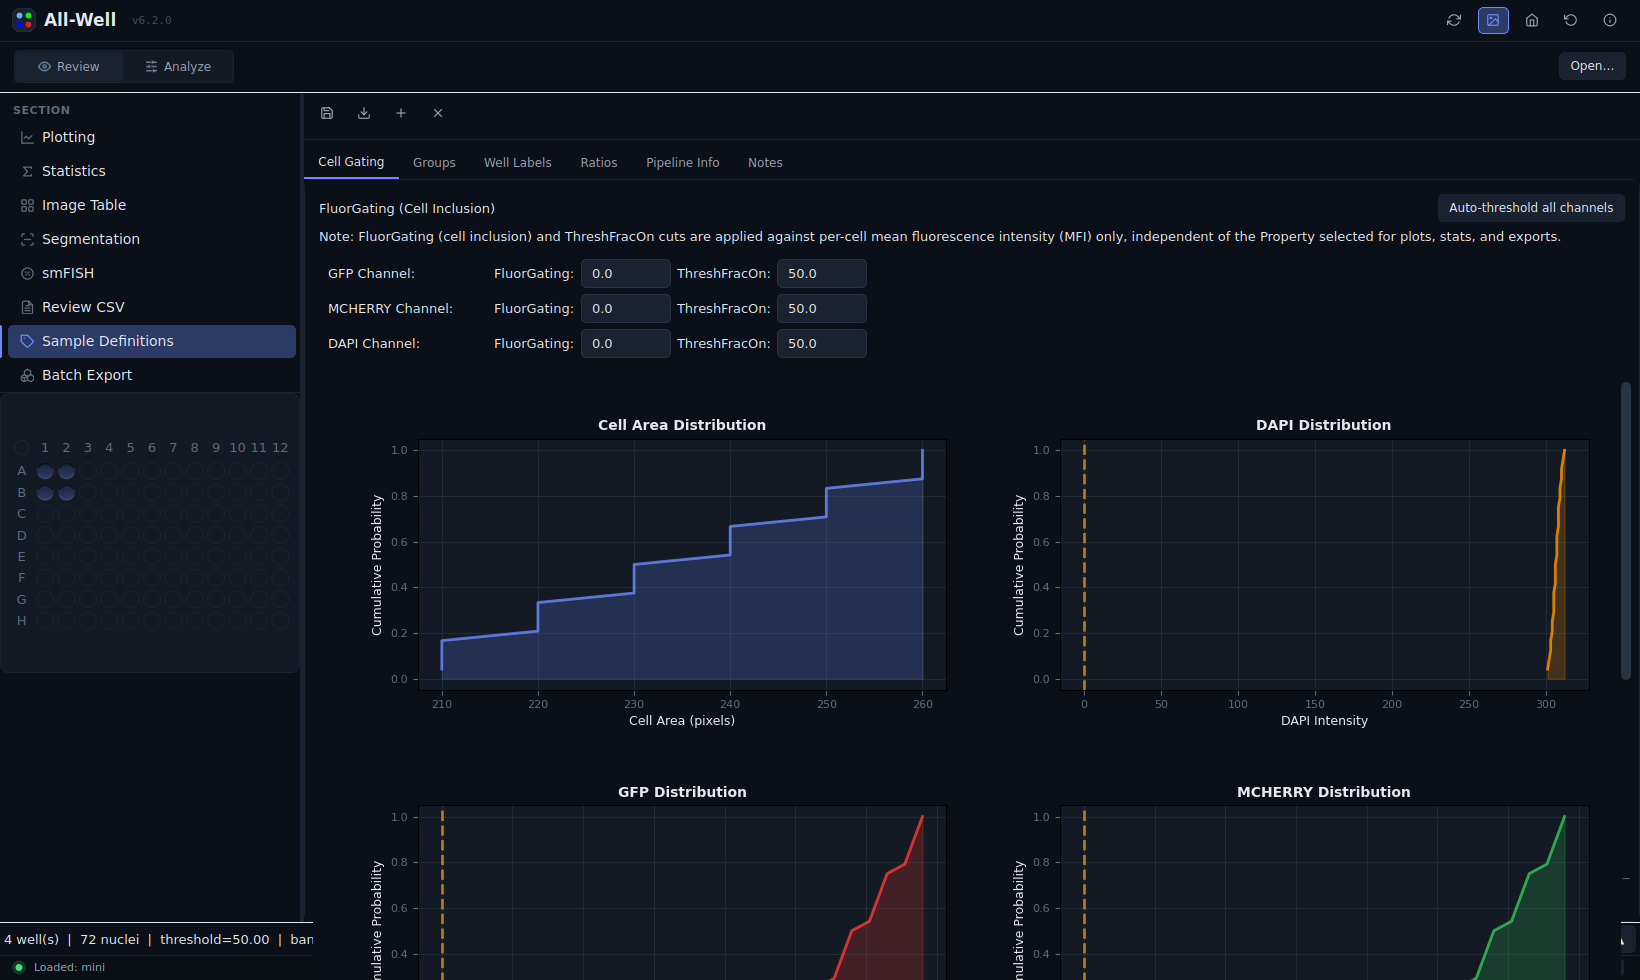
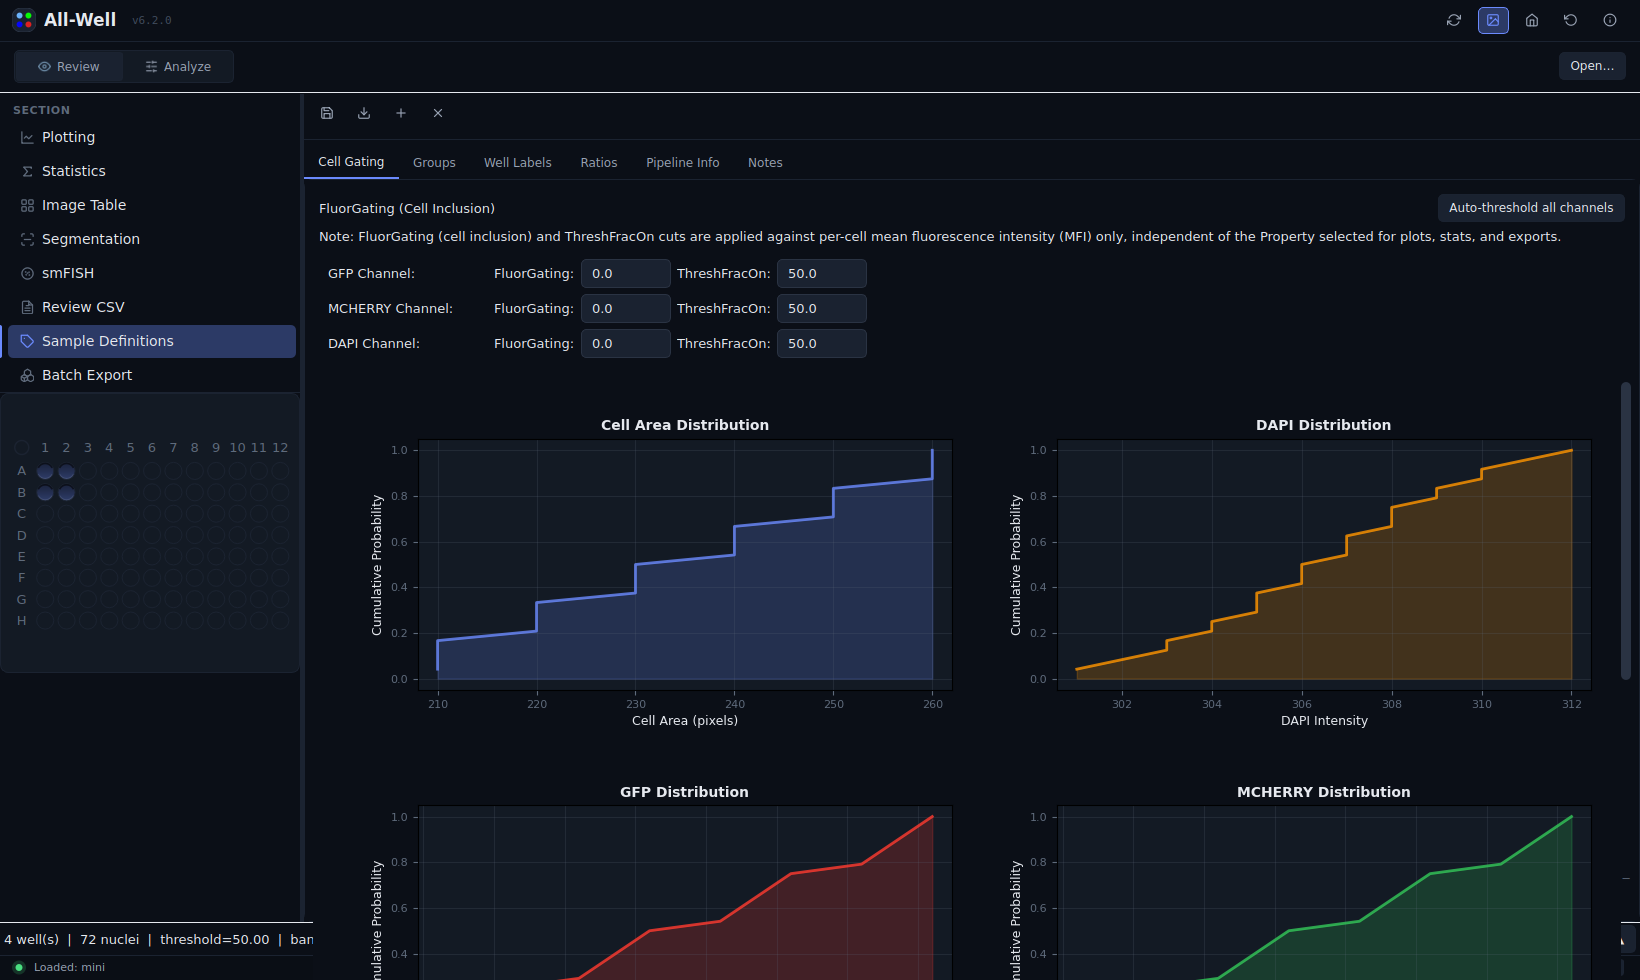
Address remaining visual-audit items (empty-state gating, cosmetics)
- Empty/no-data state: grey out the per-tab control bars until a dataset
  loads. refresh_plot_empty_states now disables every control container that
  carries the shared 'TabCtrl' object name plus the plotting ctxbar's
  'PlottingActionRow', re-enabling them on load. Tagged the Segmentation and
  Statistics control rows 'TabCtrl' so they're included; gate once at launch.
- Analyze: schema-string field expands to fill its row (was a fixed 170 px
  that clipped the schema) and shows from the start.
- Groups: empty selections list shows a centered 'No groups yet' hint instead
  of a void above the marooned From-selection/Import footer.
- Cell Gating: clamp each CDF x-axis to its data range so a gate line at 0 no
  longer stretches the axis and crams the curve against one edge.
- Re-render affected screenshots; update REPORT.md (fixes applied, score rows,
  and a closed re-investigation note: the mpl nav toolbar is already
  consistent across plots). Casing refactor intentionally left per request.

diff --git a/well_viewer/features/grouping/cell_gating_tab_view.py b/well_viewer/features/grouping/cell_gating_tab_view.py
@@ -814,6 +814,18 @@ def _cell_gating_source_wells(app) -> list[str]:
     return sorted(selected, key=app._parse_rc)
 
 
+def _focus_cdf_xaxis(ax, vals) -> None:
+    """Clamp the x-axis to the data range (+ small pad) so a gate line at 0 —
+    or far outside the data — doesn't stretch the axis and cram the CDF against
+    one edge. Called after the gate axvline so it has the final say."""
+    if len(vals) == 0:
+        return
+    lo = float(np.min(vals))
+    hi = float(np.max(vals))
+    pad = (hi - lo) * 0.04 if hi > lo else (abs(hi) * 0.05 or 1.0)
+    ax.set_xlim(lo - pad, hi + pad)
+
+
 def _cell_gating_plot_cdf(app) -> None:
     ratio_data = getattr(app, "_cell_gating_ratio_data", {}) or {}
     if (not app._cell_gating_cell_areas
@@ -864,6 +876,7 @@ def _cell_gating_plot_cdf(app) -> None:
                                 linestyle="--", linewidth=2, alpha=0.7)
         except Exception:
             swallowed()  # was: pass (silent except)
+        _focus_cdf_xaxis(axes[0], areas)
 
     colors = [accent, "#FF9500", "#FF3B30", "#34C759"]
     next_idx = 1
@@ -891,6 +904,7 @@ def _cell_gating_plot_cdf(app) -> None:
                        linestyle="--", linewidth=2, alpha=0.7)
         except (ValueError, KeyError):
             swallowed("cell gating CDF: no fluor-gate line (unparsable/missing)")
+        _focus_cdf_xaxis(ax, vals)
         next_idx += 1
 
     for ratio_label, values in sorted(ratio_data.items()):
@@ -908,6 +922,7 @@ def _cell_gating_plot_cdf(app) -> None:
                      fontsize=10, fontweight="bold")
         ax.grid(True, alpha=0.2, color=txt_mut)
         ax.tick_params(colors=txt_mut, labelsize=8)
+        _focus_cdf_xaxis(ax, vals)
         next_idx += 1
 
     app._cell_gating_ax = axes[0]

diff --git a/well_viewer/core/ui_helpers.py b/well_viewer/core/ui_helpers.py
@@ -158,6 +158,14 @@ def wrap_with_empty_state(
     return stack
 
 
+#: Object names of per-tab control-bar containers that act on the loaded
+#: dataset. They are greyed out until a dataset is present (see
+#: ``refresh_plot_empty_states``) so the empty state isn't a wall of live-looking
+#: controls that do nothing. ``TabCtrl`` is the shared marker every tab's control
+#: row already uses; ``PlottingActionRow`` is the plotting ctxbar's channel row.
+_DATA_GATED_OBJECT_NAMES = ("TabCtrl", "PlottingActionRow")
+
+
 def refresh_plot_empty_states(app: Any) -> None:
     """Flip every registered plot-empty-state stack based on whether a
     dataset is currently loaded. Safe to call before any stacks have been
@@ -171,6 +179,16 @@ def refresh_plot_empty_states(app: Any) -> None:
                 stack.setCurrentIndex(target)
         except Exception:
             swallowed()  # was: pass (silent except)
+    # Grey out the per-tab control bars until a dataset is loaded. Disabling the
+    # container cascades to its children; re-enabling restores each child's own
+    # enabled state (so tab-local logic like smFISH's combo gating still wins).
+    if isinstance(app, QWidget):
+        for name in _DATA_GATED_OBJECT_NAMES:
+            for bar in app.findChildren(QWidget, name):
+                try:
+                    bar.setEnabled(has_data)
+                except Exception:
+                    swallowed()
 
 
 def build_section_header(

diff --git a/well_viewer/features/preview/panel_view.py b/well_viewer/features/preview/panel_view.py
@@ -40,6 +40,7 @@ def build_review_image_panel(self, parent: QWidget) -> None:
     layout.addWidget(inner, 1)
 
     ctrl = QWidget(inner)
+    ctrl.setObjectName("TabCtrl")  # data-gated: greyed out until a dataset loads
     cl = QHBoxLayout(ctrl)
     cl.setContentsMargins(10, 6, 10, 6)
     self._review_image_well_lbl = QLabel("No well selected", ctrl)
@@ -161,6 +162,7 @@ def build_review_image_panel(self, parent: QWidget) -> None:
     il.addWidget(self._review_image_status)
 
     lut_row = QWidget(inner)
+    lut_row.setObjectName("TabCtrl")  # data-gated with the rest of the controls
     lr = QHBoxLayout(lut_row)
     lr.setContentsMargins(8, 2, 8, 2)
     self._review_lut_chan_lbl = QLabel(
@@ -186,6 +188,7 @@ def build_review_image_panel(self, parent: QWidget) -> None:
     # ── Color customization + binary-mask toggle row ───────────────────
     from PySide6.QtWidgets import QPushButton as _QPushButton
     color_row = QWidget(inner)
+    color_row.setObjectName("TabCtrl")  # data-gated with the rest of the controls
     cr = QHBoxLayout(color_row)
     cr.setContentsMargins(8, 2, 8, 2)
     self._review_image_color_swatches = {}

diff --git a/widgets/saved_selections_list.py b/widgets/saved_selections_list.py
@@ -902,7 +902,20 @@ class SavedSelectionsList(QWidget):
             if it.widget():
                 it.widget().deleteLater()
         self._rows = {}
-        for s in self._display_order():
+        order = self._display_order()
+        if not order:
+            # Fill the empty panel with a centered hint instead of leaving a
+            # large void above the marooned "From selection" / "Import" footer.
+            self._vbox.insertStretch(0)
+            hint = QLabel(
+                "No groups yet.\nUse “+ Add” above or “From selection” below "
+                "to create one."
+            )
+            hint.setObjectName("Muted")
+            hint.setAlignment(Qt.AlignCenter)
+            hint.setWordWrap(True)
+            self._vbox.insertWidget(self._vbox.count() - 1, hint)
+        for s in order:
             row = _SelectionRow(s, self._body)
             row.activated.connect(self._on_activated)
             row.visibilityToggled.connect(self._on_visibility)

diff --git a/analyze_tab_form.py b/analyze_tab_form.py
@@ -152,9 +152,11 @@ class AnalyzeTabFormMixin:
 
         schema_str_row = self._row(sec, "Schema string")
         self._schema_str_edit = QLineEdit(DEFAULT_SCHEMA, schema_str_row)
-        self._schema_str_edit.setFixedWidth(170)
-        schema_str_row.layout().addWidget(self._schema_str_edit)
-        schema_str_row.layout().addStretch(1)
+        # Expand to fill the row — a fixed 170 px clipped the full schema string
+        # (e.g. "experiment:channel:well:fov:timepoint" → "nnel:well:fov:…").
+        self._schema_str_edit.setMinimumWidth(220)
+        self._schema_str_edit.setCursorPosition(0)  # show the start, not the tail
+        schema_str_row.layout().addWidget(self._schema_str_edit, 1)
         self._schema_str_edit.editingFinished.connect(self._sync_dropdowns_from_string)
 
         self._schema_err_lbl = QLabel("", sec)

diff --git a/well_viewer/features/stats/view.py b/well_viewer/features/stats/view.py
@@ -141,6 +141,7 @@ def build_stats_results_panel(app, parent: QWidget) -> None:
     layout.addWidget(app._stats_hdr)
 
     app._stats_ctrl = QWidget(parent)
+    app._stats_ctrl.setObjectName("TabCtrl")  # data-gated until a dataset loads
     cl = QGridLayout(app._stats_ctrl)
     cl.setContentsMargins(12, 6, 12, 6)
 
@@ -216,6 +217,7 @@ def build_stats_results_panel(app, parent: QWidget) -> None:
     # five grid rows in a third column and rendered vertically centered (it
     # appeared to float beside the Channel row, disconnected from the form).
     run_row = QWidget(parent)
+    run_row.setObjectName("TabCtrl")  # data-gated with the stats form above
     rrl = QHBoxLayout(run_row)
     rrl.setContentsMargins(12, 0, 12, 6)
     run_btn = btn_primary(run_row, "Run test", app._stats_run)

diff --git a/well_viewer/runtime_app.py b/well_viewer/runtime_app.py
@@ -333,6 +333,10 @@ class WellViewerApp(QWidget):
         from well_viewer.core.app_shell_view import build_ui
         build_ui(self)
         self._apply_theme()
+        # Gate the per-tab control bars to the no-data state on launch (they are
+        # re-enabled the moment a dataset loads). Lazily-built tabs pick this up
+        # on their first redraw via the same helper.
+        refresh_plot_empty_states(self)
 
         if data_path is not None:
             QTimer.singleShot(100, lambda: self._load_path(data_path))

diff --git a/_Docs/visual_audit/REPORT.md b/_Docs/visual_audit/REPORT.md
@@ -22,7 +22,7 @@ Cleanliness · Usability · Professionalism**. Findings are tagged
 
 | View | Clut | Algn | Act | Cons | Clean | Use | Prof | Worst issues |
 |------|:--:|:--:|:--:|:--:|:--:|:--:|:--:|------|
-| Empty state | 2 | 4 | 3 | 3 | 3 | 3 | 3 | Full plot toolbar active with no data |
+| Empty state | 4 | 4 | 4 | 4 | 4 | 4 | 4 | ✅ control bars greyed until a dataset loads |
 | Plotting · Bar Plots | 3 | 4 | 3 | 3 | 4 | 4 | 4 | Tall 4-row toolbar; unlabeled icons; stray bar labels |
 | Plotting · Line Graphs | 4 | 4 | 3 | 3 | 4 | 4 | 4 | Unlabeled icons; legend repeated per subplot |
 | Plotting · Scatter (per-cell) | 4 | 4 | 3 | 2 | 4 | 4 | 4 | `gfp` lowercase vs `GFP`; mpl toolbar appears |
@@ -33,30 +33,30 @@ Cleanliness · Usability · Professionalism**. Findings are tagged
 | Image Table | 3 | 4 | 3 | 3 | 3 | 3 | 3 | ✅ row table aligned, labels fixed, row-boxes captioned; still dense by nature |
 | Segmentation · Review Image | 3 | 3 | 3 | 3 | 3 | 3 | 3 | Dense single-row toolbar; many buttons |
 | Segmentation · Playground | – | – | – | – | – | – | – | Did not render (optional deps) |
-| smFISH | 3 | 3 | 3 | 3 | 4 | 3 | 4 | ✅ duplicate message fixed; controls still active w/ no data |
+| smFISH | 4 | 3 | 3 | 3 | 4 | 4 | 4 | ✅ duplicate message fixed; controls greyed until data loads |
 | Review CSV | 4 | 4 | 4 | 4 | 5 | 4 | 5 | Header text right-aligned for text cols |
-| Sample Def · Cell Gating | 4 | 4 | 4 | 4 | 4 | 4 | 4 | CDF auto-range crams data to edge |
-| Sample Def · Groups | 3 | 3 | 3 | 3 | 3 | 3 | 4 | Action bar marooned at bottom; big empty middle |
+| Sample Def · Cell Gating | 4 | 4 | 4 | 4 | 5 | 4 | 5 | ✅ CDF axes now focus on the data range |
+| Sample Def · Groups | 4 | 4 | 4 | 3 | 4 | 4 | 4 | ✅ empty-state hint fills the void; footer reads in context |
 | Sample Def · Well Labels | 4 | 5 | 4 | 3 | 5 | 4 | 5 | `a01` lowercase vs plate `A01` |
 | Sample Def · Ratios | 4 | 3 | 4 | 4 | 4 | 4 | 4 | Header alignment; split action bar |
 | Sample Def · Pipeline Info | 5 | 5 | 5 | 5 | 5 | 5 | 5 | — (reference for the rest) |
 | Sample Def · Notes | 5 | 5 | 4 | 4 | 5 | 5 | 5 | Doc toolbar icons unlabeled |
 | Batch Export | 3 | 3 | 3 | 3 | 3 | 3 | 4 | Dense two-column; large top gap |
-| Analyze | 3 | 4 | 4 | 4 | 3 | 4 | 4 | Schema string truncated; large empty right pane |
+| Analyze | 4 | 4 | 4 | 4 | 3 | 4 | 4 | ✅ schema field widened/shows start; right pane still sparse when idle |
 | Help drawer | 4 | 4 | 4 | 4 | 4 | 4 | 4 | Underlay not dimmed |
 
 ---
 
 ## Per-view findings
 
-### Empty state — `00-empty-state.png`
-The "Load a directory" placeholder is clear and well-centered, **but the entire Plotting
-control bar** (Channel `—`, Property, Threshold 50.0, Fold change, Timepoints, Group by
-Well, Beeswarm, Violin, Smooth) **is fully rendered and interactive with no data behind
-it**. It implies actions that do nothing.
-- **[H]** Hide or disable the per-tab control bars until a dataset is loaded; show only the
-  empty-state prompt.
-- **[M]** Header icon buttons (refresh / image / home / info) are icon-only and ambiguous.
+### Empty state — `00-empty-state.png` *(fixed in this pass)*
+The "Load a directory" placeholder is clear and well-centered.
+- **[H→fixed]** The Plotting control bar (Channel / Property / Threshold / Fold change /
+  Timepoints / Group by Well / Beeswarm / Violin / Smooth) is now **greyed out until a
+  dataset loads**, so the empty state no longer presents a wall of live-looking controls
+  that do nothing. The sub-tab selector stays active.
+- **[L]** Header icon buttons (refresh / image / home / info) are icon-only — but they all
+  carry tooltips (hover-only; see cross-cutting note 4).
 
 ### Plotting · Bar Plots / Line Graphs — `10-plotting-bar-plots.png`, `10-plotting-line-graphs.png`
 Plots themselves are clean and professional. Issues:
@@ -73,7 +73,8 @@ Plots themselves are clean and professional. Issues:
 - **[L]** A matplotlib navigation toolbar appears at the bottom here but not on line/bar plots.
 
 ### Plotting · Distribution — `10-plotting-distribution.png`
-Good, readable. **[L]** matplotlib nav toolbar present (inconsistent with line/bar tabs).
+Good, readable. *(The matplotlib nav toolbar here is consistent with the other plots — see
+the closed re-investigation note in Deferred.)*
 
 ### Plotting · Heat Map — `10-plotting-heat-map.png`
 - **[H]** The heat-map figure is rendered on a **bright white background inside the dark UI** —
@@ -116,12 +117,12 @@ Clean and professional. **[L]** Column headers are right-aligned even for text c
 (well, channel), which looks slightly off against left-read values.
 
 ### Sample Definitions
-- **Cell Gating** `70-sample-def-cell-gating.png`: well-organized; **[M]** CDF plots auto-range
-  so the threshold marker sits at x=0 while data crams against the right edge (partly fixture
-  data, but the auto-range should focus on the data).
-- **Groups** `70-sample-def-groups.png`: **[M]** the "From selection / Import…" action bar is
-  marooned at the very bottom of a large empty panel, far from the GROUPS header and its
-  +Add/Clear-All controls.
+- **Cell Gating** `70-sample-def-cell-gating.png`: well-organized. **[M→fixed]** each CDF
+  x-axis is now clamped to its data range, so the curve spreads across the plot instead of
+  cramming against one edge while a gate line at 0 stretched the axis.
+- **Groups** `70-sample-def-groups.png`: **[M→fixed]** the empty list now shows a centered
+  "No groups yet — use +Add above or From selection below" hint, filling the void so the
+  footer reads in context instead of marooned at the bottom.
 - **Well Labels** `70-sample-def-well-labels.png`: excellent grid. **[L]** cells show `a01`
   lowercase vs uppercase `A01` elsewhere.
 - **Ratios** `70-sample-def-ratios.png`: clean; **[L]** split action bar (Add/Remove bottom-left,
@@ -136,9 +137,10 @@ Two-card layout (Export Groups | Output Settings) is reasonable. **[M]** dense; 
 empty band between the header and content.
 
 ### Analyze — `90-analyze.png`
-Good structure (schema form | run dashboard with plate + legend). **[M]** the **Schema
-string** field is truncated ("nnel:well:fov:timepoint"); **[M]** the right pane has a large
-empty lower half once the dashboard is idle.
+Good structure (schema form | run dashboard with plate + legend). **[M→fixed]** the **Schema
+string** field no longer clips — it expands to fill the row and shows from the start.
+**[M]** the right pane still has a large empty lower half once the dashboard is idle
+(left as-is; it fills during a run).
 
 ### Help drawer — `95-dialog-help.png`
 Readable right-side drawer with Workflow / Shortcuts / Reference sections. **[L]** the
@@ -151,21 +153,22 @@ underlying app is not dimmed, so the drawer edge blends into the content.
 1. **[H] Channel-name casing is inconsistent** — `GFP` (global combo, plot titles, Cell Gating)
    vs `gfp` (Scatter X/Y fields, Statistics, Pipeline Info). Pick one display casing
    (uppercase for fluor tokens) and apply everywhere combos are populated.
-2. **[H] Control bars stay active in empty / no-data states** (Empty plotting bar, smFISH,
-   Segmentation LUT). Disable or hide controls until their data exists.
-3. **[H] Plot background theme is inconsistent** — Heat Map renders white while all other plots
-   use the dark plot theme.
+2. **[H→fixed] Control bars stayed active in empty / no-data states** (plotting bar, smFISH,
+   Segmentation LUT) — now greyed out until a dataset loads (central gating on the shared
+   `TabCtrl` marker), re-enabled on load.
+3. **[H→fixed] Plot background theme was inconsistent** — Heat Map rendered white while all
+   other plots use the dark plot theme; now themed.
 4. **[L] Icon-only buttons** (window header, plot cards, Sample-Definitions doc toolbar).
    *Correction after code review:* these **already have `setToolTip` text** — they simply
    don't surface in static screenshots (hover-only). No change needed; the discoverability
    concern is lower than the screenshots suggested.
-5. **[M] matplotlib nav toolbar appears unevenly** (Distribution / Scatter / Cell Gating yes;
-   Line / Bar no). Choose one policy — the `PlotCard` already provides export/copy, so the
-   redundant mpl toolbar can be hidden everywhere for a cleaner, consistent look.
-6. **[M] Duplicate / redundant messaging** — smFISH empty text twice; status "Ready." in both
-   the status bar and the status-dot label.
-7. **[M] Marooned action bars & label↔control gaps** — Groups (bottom action bar) and Image
-   Table (per-row display) separate related elements across large empty space.
+5. **[resolved — no change] matplotlib nav toolbar** — looked uneven but is actually
+   consistent (every PlotCard embeds one; it just scrolls off-screen on the tall stacked
+   plots). See the closed re-investigation note under Deferred.
+6. **[M] Duplicate / redundant messaging** — smFISH empty text twice *(fixed)*; status
+   "Ready." in both the status bar and the status-dot label *(still present)*.
+7. **[fixed] Marooned action bars & label↔control gaps** — Groups (empty-state hint added)
+   and Image Table (per-row controls now hug the left) resolved.
 
 ## Discovered functional bug (not visual)
 
@@ -193,8 +196,13 @@ visual scope, flagged for the maintainer.
 | H | **smFISH duplicate empty-state message** — full guidance now shown once (on the canvas); the status line is a concise one-liner. | `well_viewer/features/smfish/tab_view.py` | ✅ done |
 | M | **Image Table clutter** — fixed the truncated "Timepoint:" cell label (width 54→72); the per-row levels table no longer stretches the label column (controls hug the left instead of floating far-right with a big gap); "Bound." → "Boundaries"; the tinted row-shortcut boxes now carry an "Apply to whole row" caption so they read as row-wide controls, not stray cells. | `well_viewer/features/image_table/grid_view.py` | ✅ done |
 | — | **`flush_dirty_scopes` regression** (functional) — `tab_controller` imported it from `fold_change_controls`, which never re-exported it, so every tab switch threw `ImportError` (Qt-swallowed). Added the missing re-export and replaced the debug `traceback.print_exc()` with a logged swallow. | `well_viewer/domain/fold_change_controls.py`, `well_viewer/core/tab_controller.py` | ✅ done |
+| M | **Control bars greyed out in the empty / no-data state** — the per-tab control rows (which all share the `TabCtrl` object name) plus the plotting ctxbar's channel row are now disabled until a dataset loads, and re-enabled the moment one does. Central one-point gating in `refresh_plot_empty_states`; Segmentation + Statistics control rows tagged `TabCtrl` so they're included. | `well_viewer/core/ui_helpers.py`, `well_viewer/runtime_app.py`, `well_viewer/features/preview/panel_view.py`, `well_viewer/features/stats/view.py` | ✅ done |
+| L | **Analyze schema-string field** — was a fixed 170 px that clipped the schema; now expands to fill the row and shows from the start. | `analyze_tab_form.py` | ✅ done |
+| L | **Groups empty state** — the empty list panel now shows a centered "No groups yet" hint instead of a void above the marooned "From selection / Import" footer. | `widgets/saved_selections_list.py` | ✅ done |
+| L | **Cell Gating CDF auto-range** — each CDF x-axis is clamped to its data range (+ pad) so a gate line at 0 no longer stretches the axis and crams the curve against one edge. | `well_viewer/features/grouping/cell_gating_tab_view.py` | ✅ done |
 
-Verified by re-rendering: see `10-plotting-heat-map.png`, `20-statistics.png`, `50-smfish.png`
+Verified by re-rendering: see `00-empty-state.png`, `10-plotting-heat-map.png`, `20-statistics.png`,
+`50-smfish.png`, `70-sample-def-cell-gating.png`, `70-sample-def-groups.png`, `90-analyze.png`
 (the screenshots in this folder are the post-fix state). `ruff` clean; the runnable fast
 test lane (700 tests) passes — the 5 + 7 skipped/errored modules are pre-existing
 `tifffile`/heavy-ML import gaps in the audit environment, unrelated to these changes.
@@ -207,10 +215,16 @@ so each `FigureCanvas` is now drawn synchronously and composited onto the window
 
 | # | Sev | Item | Why deferred |
 |---|-----|------|--------------|
-| 1 | H | **Channel-token casing** (`gfp`→`GFP` in Scatter/Statistics) | Not display-only: `col_for_scatter_entry` builds CSV column names straight from the combo text (`f"{entry}_{metric}"`), and view-state persistence stores the raw text. A safe fix needs a display↔token mapping across ~8 read/persistence sites — a focused refactor, not a one-liner. |
-| 2 | M | **Disable control bars in empty / no-data states** (empty plotting bar, smFISH, Segmentation LUT) | Touches `centre_view.py` + several tab views; needs care to re-enable correctly on load. |
-| 4 | M | **matplotlib nav toolbar consistency** (present on some plot tabs, not others) | Could be deliberate (pan/zoom on interactive plots); removing it changes behaviour — confirm intent first. |
-| 5 | L | Analyze schema-string field width; Groups action-bar placement; CDF auto-range | Cosmetic polish. |
+| 1 | H | **Channel-token casing** (`gfp`→`GFP` in Scatter/Statistics) | Not display-only: `col_for_scatter_entry` builds CSV column names straight from the combo text (`f"{entry}_{metric}"`), and view-state persistence stores the raw text. A safe fix needs a display↔token mapping across ~8 read/persistence sites — a focused refactor, not a one-liner. **Per the user's instruction this is the only item intentionally left undone.** |
+
+### Re-investigated and closed without a code change
+
+- **matplotlib nav toolbar consistency** — on closer inspection it is already consistent:
+  every PlotCard plot (line / bar / scatter / distribution / heatmap) embeds the same
+  `MplToolbar`, and the raw-canvas tabs (cell-gating, smFISH) add one explicitly. It only
+  *looked* absent on Line/Bar because those are tall 3-subplot plots where the toolbar
+  scrolls below the fold. The toolbar provides pan/zoom that image-based tabs rely on, so
+  removing it would lose function — no change made.
 
 ## Discovered functional regression (now fixed)
 
